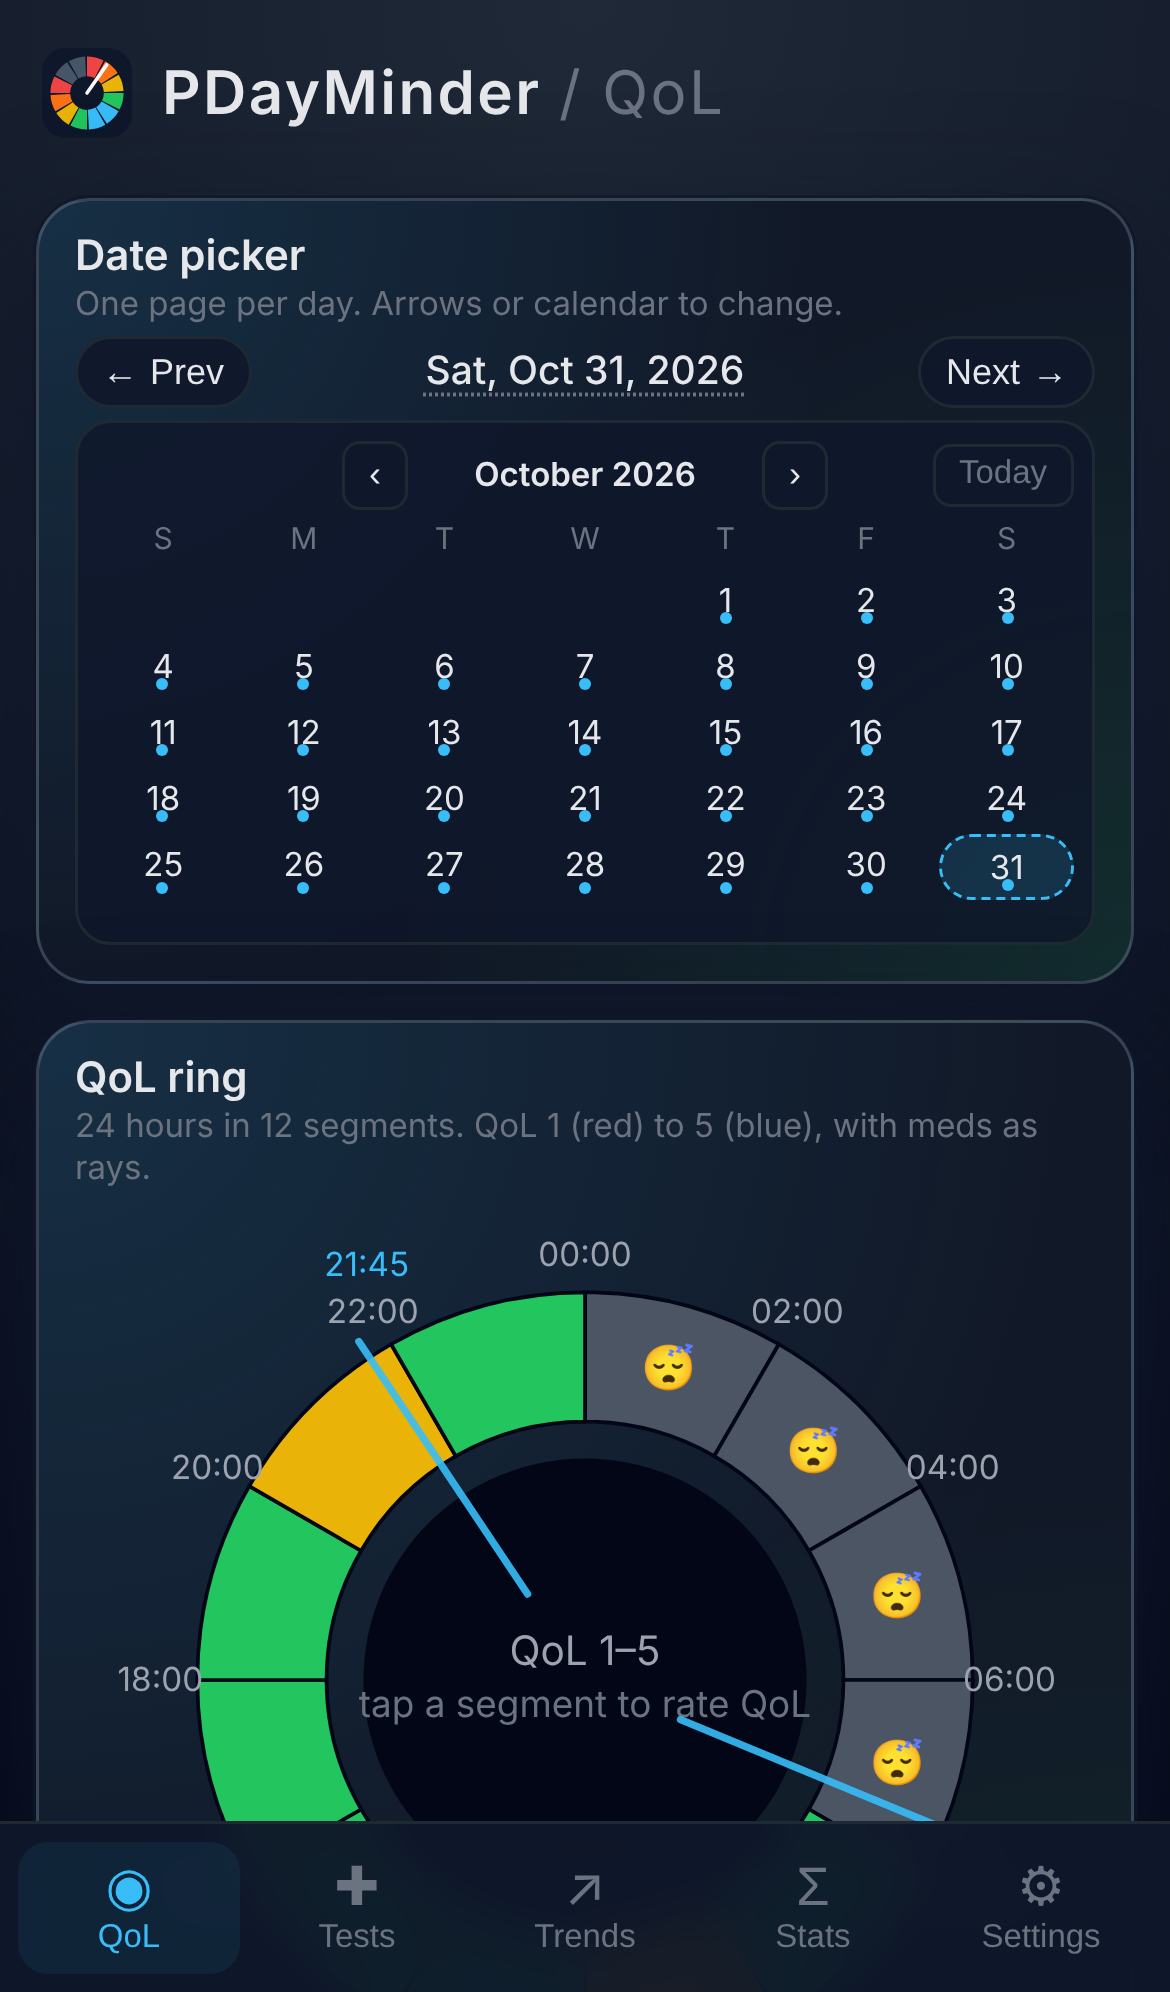
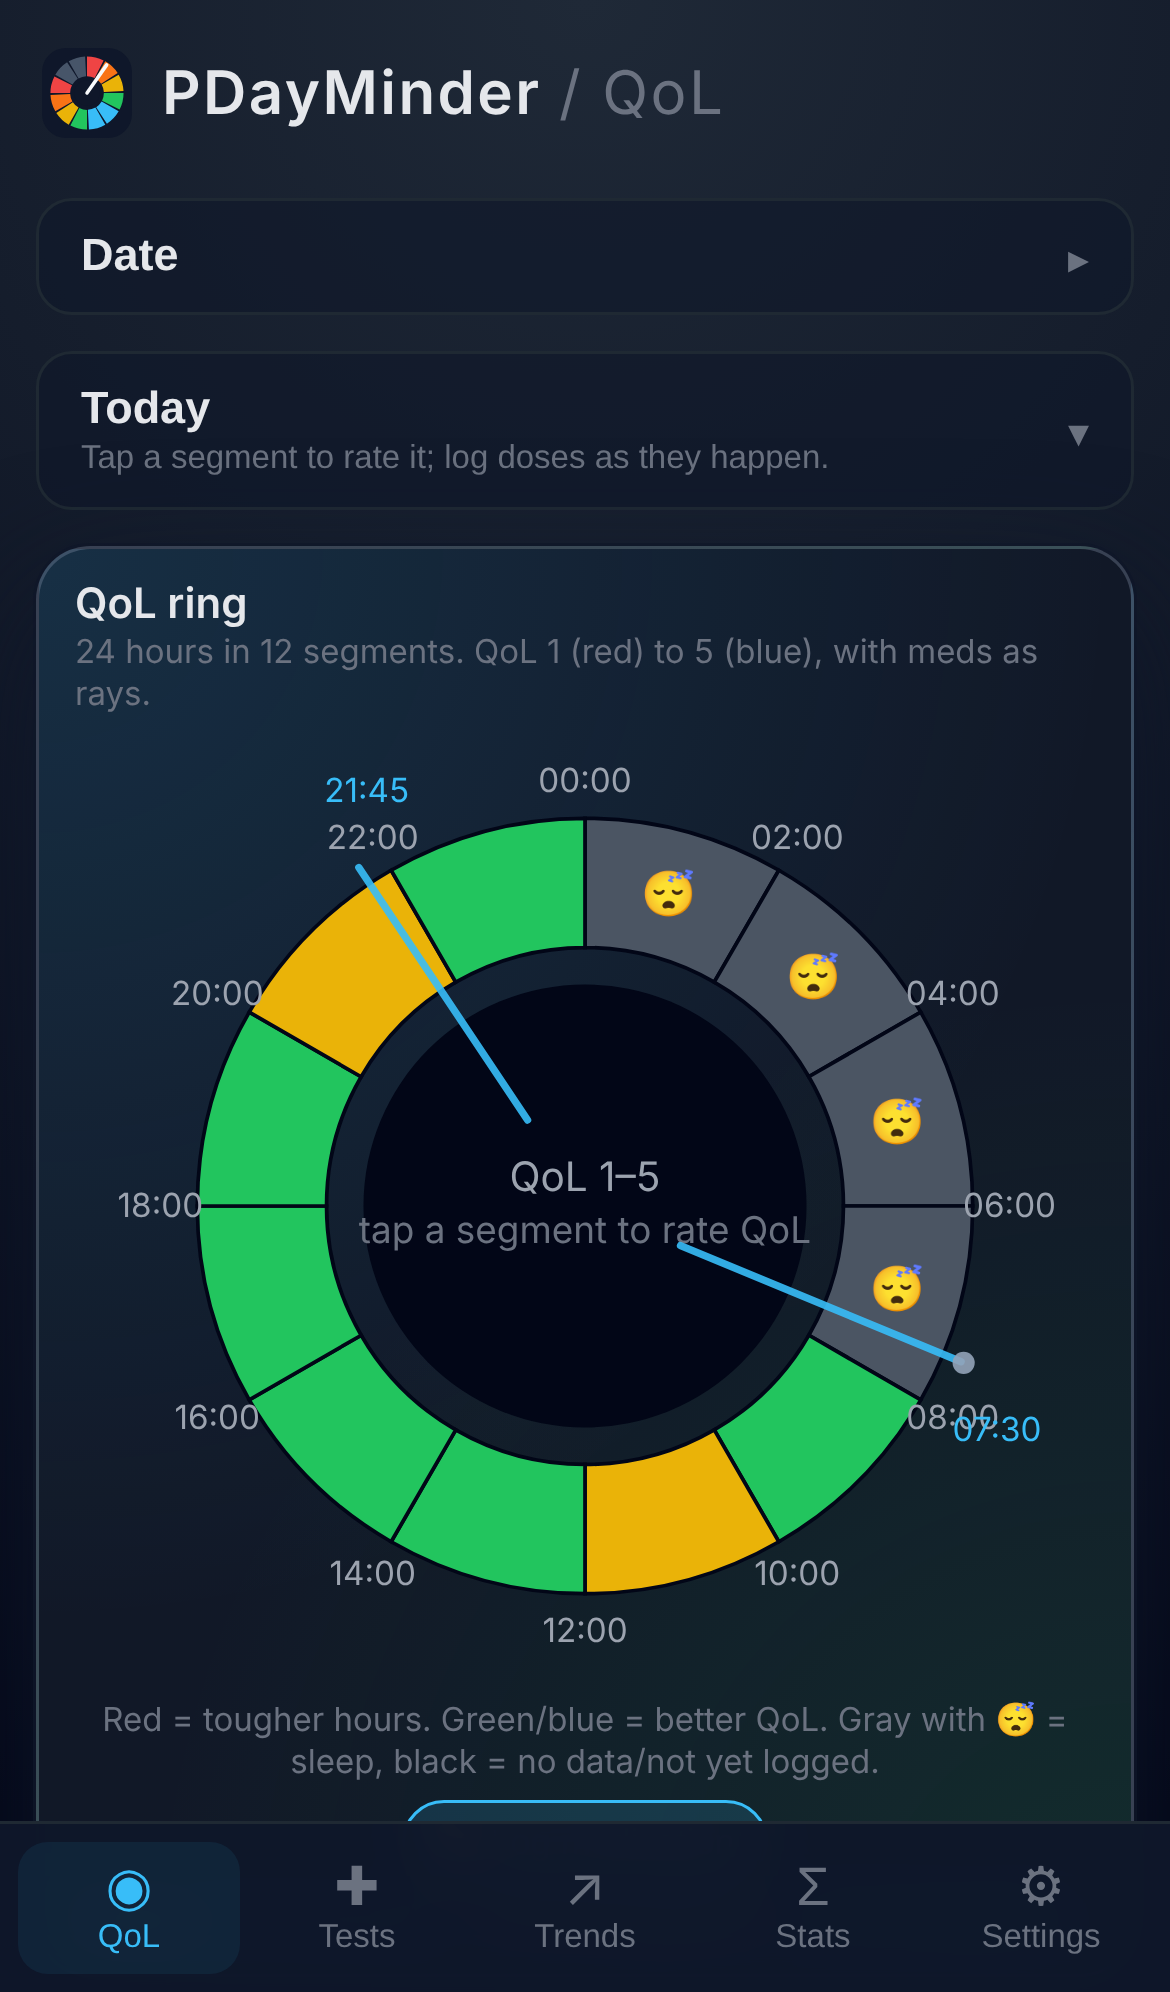
Trends: fix 'no data' for metrics past the 20th (daily-multi capped the metric list; now 80); collapsible sections on QoL and Trends tabs
Claude-Session: https://claude.ai/code/session_01CjncYfbvvjMgMo3sC414UQ

diff --git a/index.html b/index.html
@@ -4014,7 +4014,7 @@
 
           {tab === "qol" && (
             <>
-
+          <Section title="Date" subtitle={formatPrettyDate(selectedDate)} storageKey="qol-date" defaultOpen={false}>
           <div className="card">
             <div className="card-header">
               <div>
@@ -4058,7 +4058,8 @@
               onSelect={handleCalendarSelect}
             />
           </div>
-
+          </Section>
+          <Section title="Today" subtitle="Tap a segment to rate it; log doses as they happen." storageKey="qol-ring">
           <div className="card">
             <div className="card-header">
               <div>
@@ -4092,8 +4093,10 @@
               )) : "none logged yet"}
             </div>
           </div>
-
+          </Section>
+          <Section title="Recent days" subtitle="A week at a glance; tap any block to rate it." storageKey="qol-summary">
               <QoLSummaryCard days={days} onCellClick={handleSummaryCellClick} selectedKey={dateKey} />
+          </Section>
             </>
           )}
 
@@ -4121,10 +4124,18 @@
                 <div className="day-nav-date" style={{ textDecoration: "none", cursor: "default" }}>{formatPrettyDate(selectedDate)}</div>
                 <button className="day-nav-btn" type="button" onClick={() => goToOffsetDay(1)}><span>Next</span> <span>→</span></button>
               </div>
-              <DayVitalsCard dateKey={dateKey} days={days} />
-              <TrendsCard settings={settings} />
-              <VitalsTrendsCard />
-              <WorkoutsCard />
+              <Section title="Day" subtitle="Hourly vitals over the selected day's QoL and doses." storageKey="tr-day">
+                <DayVitalsCard dateKey={dateKey} days={days} />
+              </Section>
+              <Section title="QoL correlations" subtitle="Daily QoL against doses and any synced metric, with lag." storageKey="tr-corr">
+                <TrendsCard settings={settings} />
+              </Section>
+              <Section title="Vitals and test trends" subtitle="Sparklines, 7-day smoothed, for every synced measure." storageKey="tr-vitals" defaultOpen={false}>
+                <VitalsTrendsCard />
+              </Section>
+              <Section title="Workouts" storageKey="tr-workouts" defaultOpen={false}>
+                <WorkoutsCard />
+              </Section>
             </>
           )}
 

diff --git a/server.js b/server.js
@@ -627,13 +627,13 @@ app.get("/api/day", requireAuth, async (req, res) => {
 // Several daily metrics at once, pivoted: [{day, "hae/heart_rate_variability": 48.2, ...}]
 app.get("/api/daily-multi", requireAuth, async (req, res) => {
   const days = Math.min(365, Number(req.query.days) || 30);
-  const wanted = String(req.query.metrics || "").split(",").map((x) => x.trim()).filter(Boolean).slice(0, 20);
+  const wanted = String(req.query.metrics || "").split(",").map((x) => x.trim()).filter(Boolean).slice(0, 80);
   if (!wanted.length) return res.json([]);
   const pairs = wanted.map((w) => w.split("/"));
   const { rows } = await pool.query(
     `select to_char((ts at time zone $2)::date,'YYYY-MM-DD') as day, source || '/' || metric as key, avg(value) as v
      from observations
-     where user_id = $1 and (ts at time zone $2)::date >= (current_date at time zone $2)::date - ($3::int - 1)
+     where user_id = $1 and (ts at time zone $2)::date >= (now() at time zone $2)::date - ($3::int - 1)
        and (source, metric) in (${pairs.map((_, i) => `($${4 + i * 2}, $${5 + i * 2})`).join(",")})
      group by 1, 2 order by 1`,
     [req.user.id, TZ, days, ...pairs.flat()]
